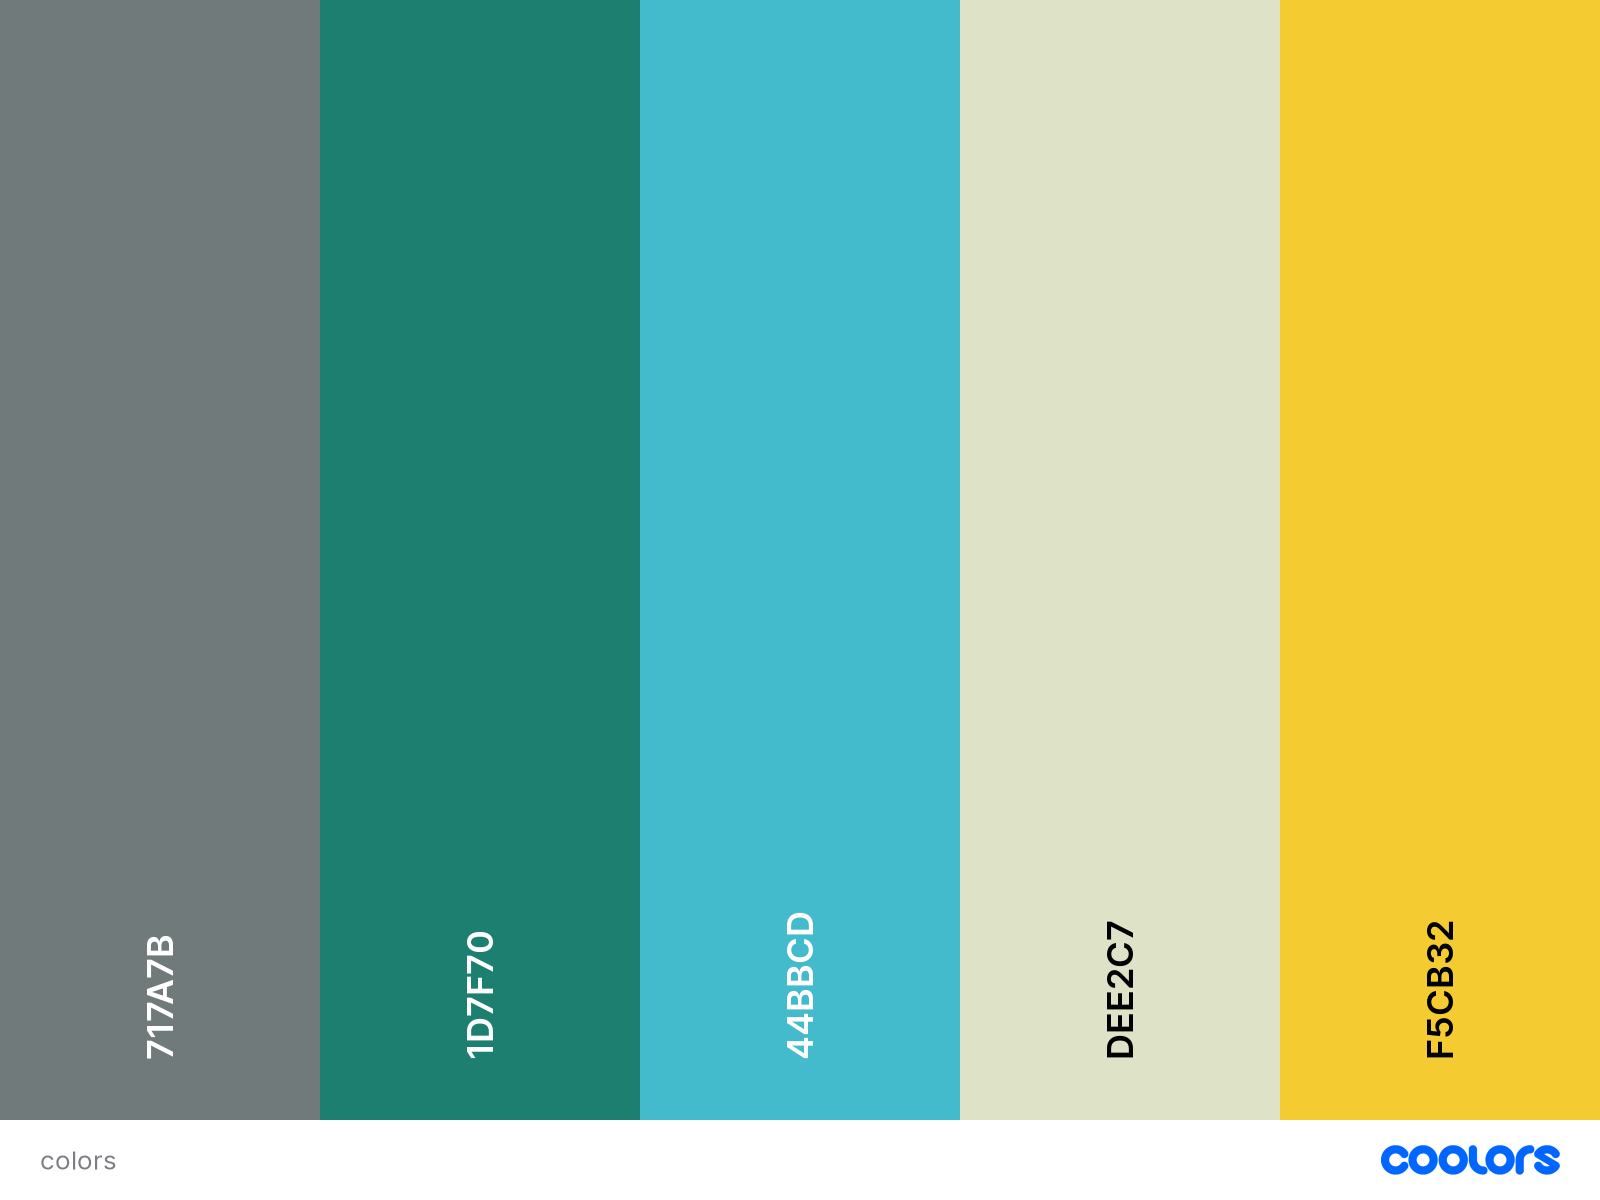
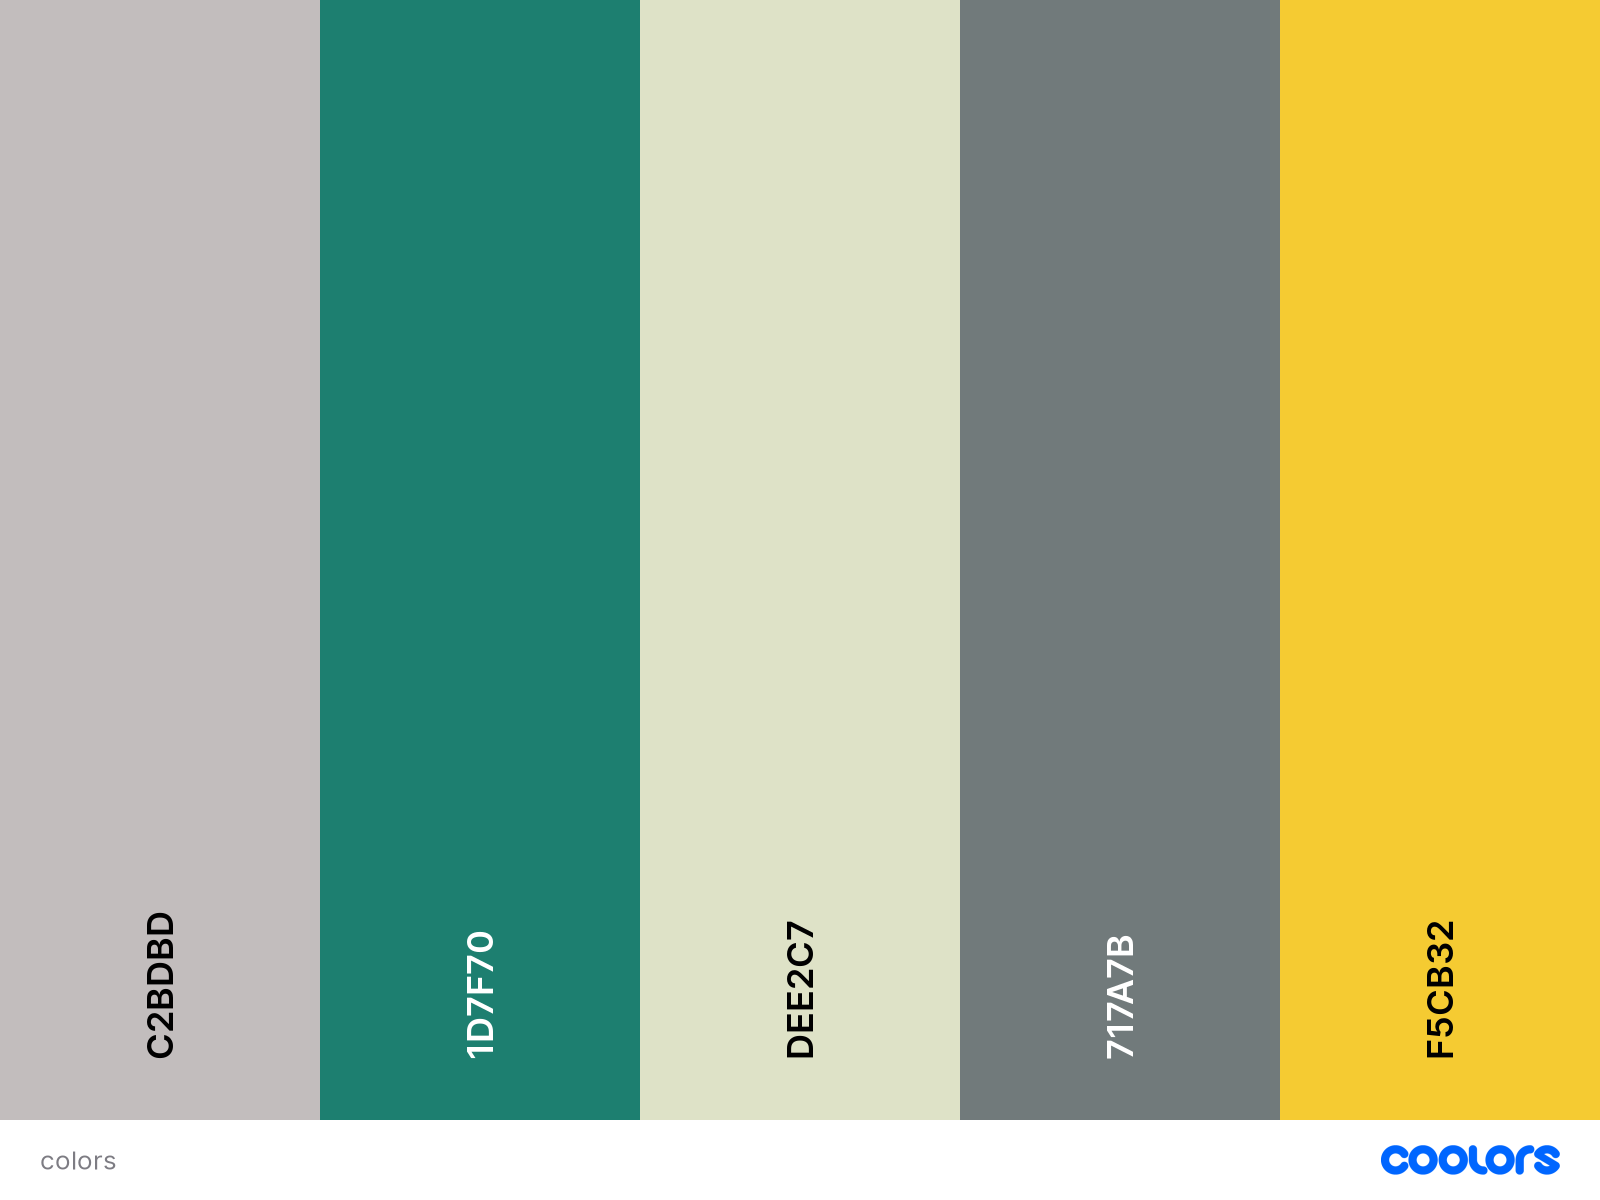
source name fixing

diff --git a/chamber/lesson3/design.html b/chamber/lesson3/design.html
@@ -18,7 +18,7 @@
 
 <body onload="allMyFunctions()">
     <header>
-        <h1>W03 - Chamber of Commerce</h1>
+        <h1>W03 Chamber of Commerce Site Project</h1>
         <h2 class="h2myname">Dorca Polack</h2>
     </header>
     <nav>
@@ -42,14 +42,14 @@
             <h2>The use of this color scheme:</h2>
             <p>
             <ol>
-                <li><strong>#717A7B:</strong> Heading and footer.</li>
+                <li><strong>#c2bdbd:</strong> Heading and footer.</li>
                 <li><strong>#1d7f70:</strong> Navigation bar and "Website Planning Document" headings</li>
-                <li><strong>#44BBCD:</strong> Navigation hover.</li>
-                <li><strong>Color white:</strong> Fonts color for the header, footer and navigation items.</li>
-                <li><strong>Color black:</strong> Main fonts.</li>
+                <li><strong>#dee2c7:</strong> Navigation hover.</li>
+                <li><strong>Color white:</strong> Fonts color for navigation items.</li>
+                <li><strong>Color black:</strong> Main fonts including header and footer.</li>
             </ol>
             <ul>
-                <li><a href="https://coolors.co/palette/717a7b-1d7f70-44bbcd-dee2c7-f5cb32">Link to Color Scheme</a></li> </ul>
+                <li><a href="https://coolors.co/palette/c2bdbd-1d7f70-dee2c7-717a7b-f5cb32">Link to Color Scheme</a></li> </ul>
             <h3>Typography</h3>
           <div>
             <p id="headings">PT Serif </p>

diff --git a/chamber/lesson3/target-audience.html b/chamber/lesson3/target-audience.html
@@ -4,7 +4,7 @@
 <head>
     <meta charset="UTF-8">
     <meta name="viewport" content="width=device-width,initial-scale=1.0">
-    <title>Lesson 03 Site Planning Home Page</title>
+    <title>W03 Chamber of Commerce Site Project</title>
     <meta name="description" content="Target audience for the site">
     <link rel="stylesheet" href="styles/normalize.css">
     <link href="styles/css1.css" rel="stylesheet">
@@ -26,7 +26,7 @@
         <ul>
             <li><a href="index.html">Home</a></li>
             <li><a href="target-audience.html">Target Audience</a></li>
-            <li><a href="design.html">Color Scheme</a></li>
+            <li><a href="design.html">Design</a></li>
 
         </ul>
     </nav>

diff --git a/chamber/lesson3/index.html b/chamber/lesson3/index.html
@@ -19,7 +19,7 @@
 
 <body onload="allMyFunctions()">
     <header>
-        <h1>W03 - Chamber of Commerce</h1>
+        <h1>W03 Chamber of Commerce Site Project</h1>
         <h2 class="h2myname">Dorca Polack</h2>
     </header>
 
@@ -27,7 +27,7 @@
         <ul>
             <li><a href="index.html">Home</a></li>
             <li><a href="target-audience.html">Target Audience</a></li>
-            <li><a href="design.html">Color Scheme</a></li>
+            <li><a href="design.html">Design</a></li>
         </ul>
     </nav>
 
